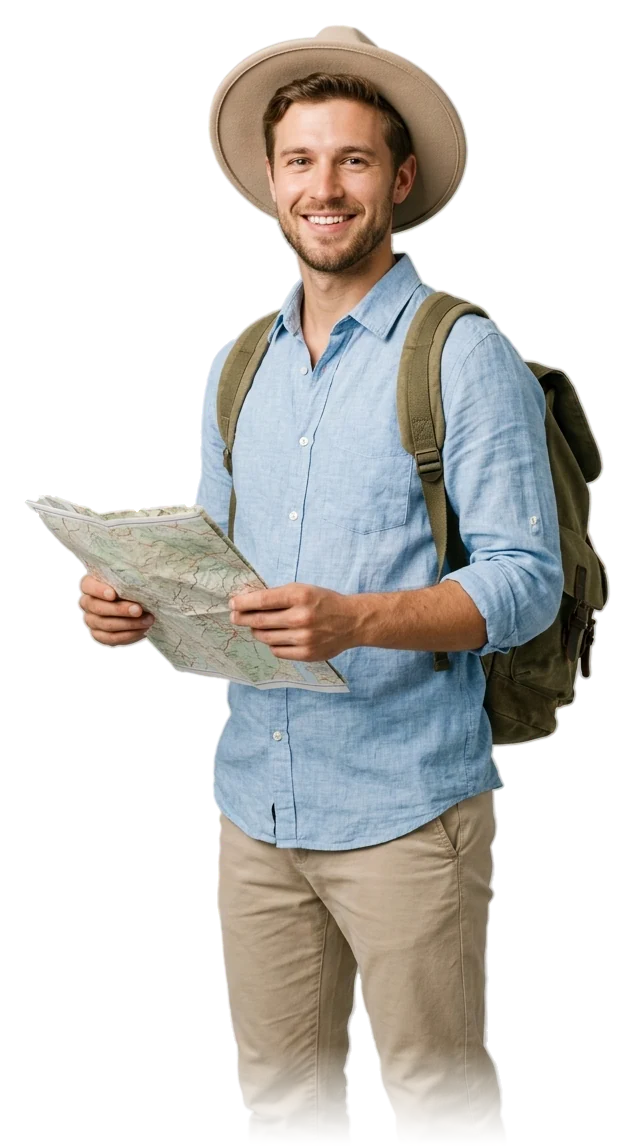
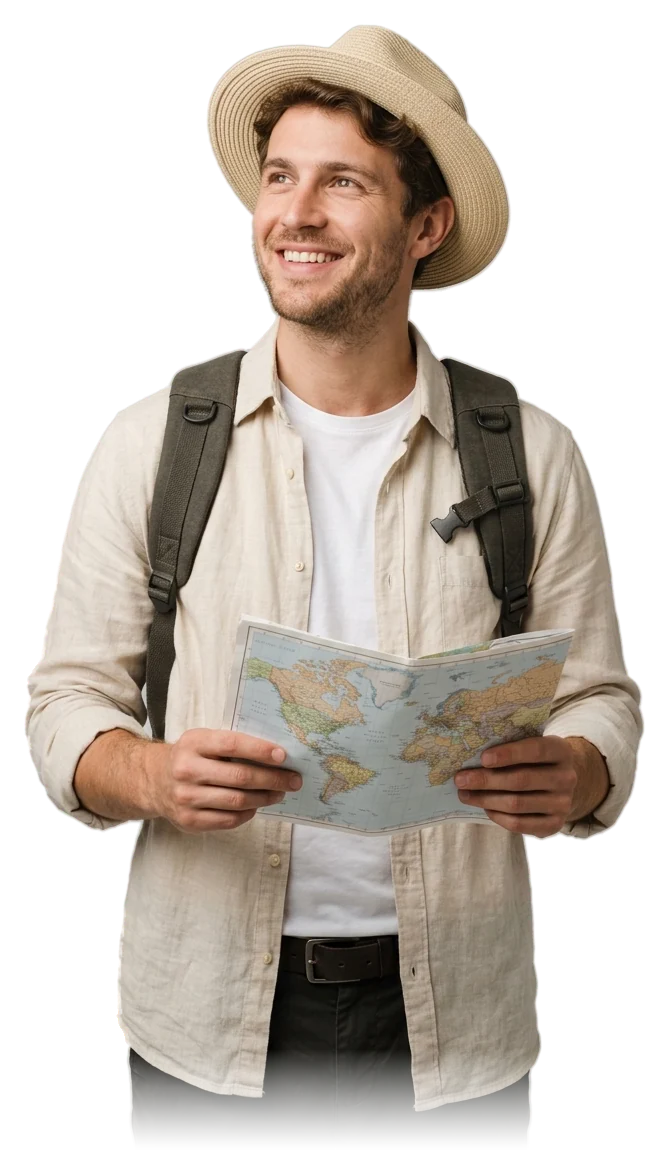
feat: Why West Travel section matching approved design (#2)
* Add reference-inspired palms, dunes and single three-pin flight arc

* Refine translated heading and eyebrow and integrate unified flight artwork

* Add irregular painted SVG alpha mask for landmark composition

* Match approved cream editorial composition with responsive and dark treatments

* feat: use traveler cutout matching approved reference (linen overshirt, white tee, straw hat, open map)

---------

diff --git a/src/components/why-west-travel/WhyWestTravelSection.module.css b/src/components/why-west-travel/WhyWestTravelSection.module.css
@@ -1,19 +1,18 @@
 .section {
-  --surface: #f7f3e9;
-  --heading: #102c40;
-  --body: #536875;
-  --accent: #216e72;
-  --mint: #e1eee7;
-  --line: #ded6c5;
-  --sand: #a58b61;
-  --wash: #e3e9df;
+  --surface: #f8f5ee;
+  --heading: #0b2b4b;
+  --body: #718594;
+  --accent: #008c9b;
+  --mint: #dfedeb;
+  --line: #e4dac6;
+  --sand: #cdb17d;
+  --wash: #e8ddca;
   position: relative;
   isolation: isolate;
   overflow: hidden;
-  padding: clamp(4rem, 7vw, 7rem) 0;
-  background: var(--surface);
+  padding: clamp(3rem, 4.5vw, 5rem) 0 2rem;
+  background: radial-gradient(ellipse at 48% 38%, #fffdf8 0, transparent 70%), var(--surface);
   color: var(--heading);
-  border-top: 1px solid var(--line);
 }
 
 .section[data-theme-mode="dark"] {
@@ -25,6 +24,7 @@
   --line: #233a43;
   --sand: #b9a17b;
   --wash: #18353d;
+  background: radial-gradient(ellipse at 48% 38%, #102636 0, transparent 70%), var(--surface);
 }
 
 .layout {
@@ -34,34 +34,37 @@
   grid-template-areas: "message" "visual" "benefits";
   gap: 2.5rem;
   align-items: center;
-  width: min(100% - 2.5rem, 1360px);
+  width: min(100% - 2.5rem, 1600px);
   margin-inline: auto;
 }
-
 .message { grid-area: message; min-width: 0; }
 .eyebrow {
   display: flex;
   align-items: center;
-  gap: 0.75rem;
+  gap: 0.55rem;
   color: var(--accent);
-  font-size: 0.6875rem;
-  font-weight: 700;
+  font-size: clamp(0.6875rem, 1.05vw, 1rem);
+  font-weight: 600;
   line-height: 1.6;
-  letter-spacing: 0.18em;
+  letter-spacing: 0.17em;
   text-transform: uppercase;
 }
-.eyebrow::before { content: ""; width: 1.75rem; height: 1px; background: var(--sand); flex: none; }
+.eyebrowPrefix { color: var(--sand); }
+.eyebrow::before, .eyebrow::after { content: ""; width: clamp(1.5rem, 3.6vw, 3.5rem); height: 1px; background: var(--sand); flex: 0 1 3.5rem; }
+.eyebrow::before { margin-right: 0.5rem; }
+.eyebrow::after { margin-left: 0.5rem; }
 .heading {
-  margin: 1rem 0 0;
+  margin: 1.25rem 0 0;
   font-family: var(--font-playfair), Georgia, serif;
-  font-size: clamp(2rem, 3.1vw, 2.75rem);
+  font-size: clamp(2.25rem, 3.4vw, 4rem);
   font-weight: 500;
-  line-height: 1.16;
-  letter-spacing: -0.035em;
+  line-height: 1.12;
+  letter-spacing: -0.04em;
   text-wrap: balance;
   overflow-wrap: break-word;
 }
-.description { margin: 1.5rem 0 0; max-width: 38ch; color: var(--body); font-size: 0.9375rem; line-height: 1.85; }
+.heading span { display: block; }
+.description { margin: 1.65rem 0 0; max-width: 38ch; color: var(--body); font-size: clamp(0.9375rem, 1.27vw, 1.25rem); line-height: 1.65; }
 .ctaWrap { margin-top: 1.75rem; }
 .cta {
   display: inline-flex;
@@ -69,69 +72,78 @@
   justify-content: center;
   gap: 1.25rem;
   max-width: 100%;
-  min-height: 48px;
-  padding: 0.875rem 1.75rem;
+  min-height: 54px;
+  padding: 0.95rem 2.25rem;
   border-radius: 999px;
-  background: #216e72;
+  background: #0095a3;
   color: #fff;
-  font-size: 0.875rem;
-  font-weight: 600;
+  font-size: clamp(0.9375rem, 1.2vw, 1.125rem);
+  font-weight: 500;
   text-decoration: none;
   transition: background-color 200ms ease;
 }
-.cta:hover { background: #17575c; }
+.cta:hover { background: #007986; }
 .cta:focus-visible { outline: 3px solid var(--accent); outline-offset: 5px; }
-.cta svg { flex: none; width: 18px; height: 18px; transition: transform 200ms ease; }
+.cta svg { flex: none; width: 21px; height: 21px; transition: transform 200ms ease; }
 .cta:hover svg { transform: translateX(4px); }
 
 .benefits { grid-area: benefits; list-style: none; padding: 0; margin: 0; display: grid; gap: 1.5rem; min-width: 0; }
-.feature { display: flex; align-items: flex-start; gap: 1rem; min-width: 0; }
-.icon { display: grid; place-items: center; width: 48px; height: 48px; flex: none; background: var(--mint); color: var(--accent); border-radius: 50%; }
-.icon svg { width: 23px; height: 23px; stroke-width: 1.6; }
-.featureCopy { min-width: 0; flex: 1; padding-bottom: 1.25rem; border-bottom: 1px solid var(--line); }
-.feature:last-child .featureCopy { border-bottom: 0; padding-bottom: 0; }
-.feature h3 { margin: 0; font-size: 0.9375rem; font-weight: 700; line-height: 1.5; }
-.feature p { margin: 0.375rem 0 0; color: var(--body); font-size: 0.8125rem; line-height: 1.8; }
+.feature { display: flex; align-items: flex-start; gap: 1.1rem; min-width: 0; }
+.icon { position: relative; display: grid; place-items: center; width: 60px; height: 60px; flex: none; background: var(--mint); color: #00677c; border-radius: 50%; box-shadow: inset 0 0 0 2px rgb(0 120 130 / 3%); }
+.icon svg { width: 32px; height: 32px; stroke-width: 1.6; }
+.supportLabel { position: absolute; top: 46%; left: 50%; transform: translate(-50%, -50%); padding: 1px; background: var(--mint); font-size: 8px; font-weight: 700; }
+.featureCopy { min-width: 0; flex: 1; padding-top: 0.2rem; }
+.featureCopy::after { content: ""; display: block; width: 46px; height: 1px; margin-top: 1.5rem; background: var(--sand); }
+.feature:last-child .featureCopy::after { display: none; }
+.feature h3 { margin: 0; font-size: clamp(0.9375rem, 1.15vw, 1.125rem); font-weight: 600; line-height: 1.5; }
+.feature p { margin: 0.4rem 0 0; color: var(--body); font-size: clamp(0.8125rem, 0.94vw, 0.9375rem); line-height: 1.65; max-width: 29ch; }
+.section[data-theme-mode="dark"] .icon { color: var(--accent); }
 
-.visual { grid-area: visual; position: relative; isolation: isolate; width: 100%; max-width: 530px; aspect-ratio: 1 / 1.1; margin: 0 auto; }
-.atmosphere { position: absolute; inset: 23% 0 3%; background: linear-gradient(155deg, transparent 8%, var(--wash) 45%, transparent 87%); }
-.landmarks { position: absolute; inset: auto -2% 5%; aspect-ratio: 10 / 7; -webkit-mask: url('/images/why-west-travel/landmark-feather.svg') center / 100% 100% no-repeat; mask: url('/images/why-west-travel/landmark-feather.svg') center / 100% 100% no-repeat; }
-.landmarks img { object-fit: cover; }
-.traveler { position: absolute; inset: 20% 13% 0; z-index: 2; }
+.visual { grid-area: visual; position: relative; isolation: isolate; width: 100%; max-width: 620px; aspect-ratio: 1 / 1.25; margin: 0 auto; }
+.atmosphere { position: absolute; inset: 22% 0 8%; background: radial-gradient(ellipse, var(--wash), transparent 70%); opacity: .35; }
+.landmarks { position: absolute; inset: 14% -12% 8%; -webkit-mask: url('/images/why-west-travel/landmark-brush.svg') center / 100% 100% no-repeat; mask: url('/images/why-west-travel/landmark-brush.svg') center / 100% 100% no-repeat; }
+.landmarks img { object-fit: cover; object-position: center; }
+.traveler { position: absolute; inset: 8% -2% 0; z-index: 2; }
 .traveler img { object-fit: contain; object-position: center bottom; }
 .photo { opacity: 0; transition: opacity 500ms ease; }
 .photo[data-loaded="true"] { opacity: 1; }
-.section[data-theme-mode="dark"] .landmarks { opacity: 0.72; }
-.section[data-theme-mode="dark"] .traveler { filter: brightness(0.9) saturate(0.85); }
-.route { position: absolute; top: 0; left: 0; width: 100%; height: 18%; color: var(--accent); opacity: 0.65; pointer-events: none; }
-.pin { position: absolute; z-index: 3; width: 20px; height: 27px; color: var(--accent); pointer-events: none; }
-.pinCenter { fill: var(--surface); }
-/* Pin tips sit just above the left Giza pyramid peak and the Burj Khalifa spire in landmarks.webp. */
-.gizaPin { left: calc(14.1% - 10px); top: calc(59.9% - 31px); }
-.dubaiPin { left: calc(79.1% - 10px); top: calc(50% - 31px); }
-.edge { position: absolute; top: 8%; height: 84%; width: 48px; color: var(--sand); opacity: 0.16; pointer-events: none; display: none; }
-.left { left: 10px; }
-.right { right: 10px; transform: rotate(180deg); }
-.section[data-theme-mode="dark"] .edge { opacity: 0.09; }
+.section[data-theme-mode="dark"] .landmarks { opacity: 0.68; }
+.section[data-theme-mode="dark"] .traveler { filter: brightness(0.88) saturate(0.85); }
+.route { position: absolute; z-index: 3; top: -1%; left: -9%; width: 118%; height: auto; color: var(--accent); pointer-events: none; }
+.edge { position: absolute; top: 4%; height: 88%; width: 58px; color: var(--sand); opacity: 0.12; pointer-events: none; display: none; }
+.left { left: 0; }
+.right { right: 0; transform: rotate(180deg); }
+.palm { position: absolute; width: clamp(130px, 14vw, 250px); color: #a99c7e; opacity: .24; pointer-events: none; display: none; }
+.palmTop { top: -15px; left: -25px; transform: rotate(-8deg); }
+.palmBottom { bottom: -12px; right: -10px; transform: rotate(180deg); }
+.dunes { position: absolute; bottom: 0; left: 0; width: 100%; height: clamp(100px, 15vw, 230px); color: var(--wash); opacity: .48; pointer-events: none; }
+.section[data-theme-mode="dark"] .edge { opacity: .055; }
+.section[data-theme-mode="dark"] .palm { opacity: .075; }
+.section[data-theme-mode="dark"] .dunes { opacity: .25; }
 
 @media (max-width: 599px) {
-  .visual { max-width: 330px; aspect-ratio: 1 / 1; }
-  .route, .pin { display: none; }
+  .section { padding-bottom: 3.5rem; }
+  .visual { max-width: 330px; }
+  .route { display: none; }
+  .eyebrow { letter-spacing: .12em; gap: .4rem; }
+  .heading { font-size: clamp(2rem, 8.5vw, 3rem); }
 }
 @media (min-width: 600px) {
   .benefits { grid-template-columns: repeat(2, minmax(0, 1fr)); gap: 2rem; }
 }
 @media (min-width: 768px) {
-  .layout { grid-template-columns: repeat(2, minmax(0, 1fr)); grid-template-areas: "visual message" "benefits benefits"; width: min(100% - 5rem, 1360px); gap: 3rem 2rem; }
+  .layout { grid-template-columns: repeat(2, minmax(0, 1fr)); grid-template-areas: "visual message" "benefits benefits"; width: min(100% - 5rem, 1600px); gap: 3rem 2rem; }
+  .palm { display: block; }
 }
 @media (min-width: 1200px) {
-  .layout { grid-template-columns: minmax(0, 0.26fr) minmax(0, 0.4fr) minmax(0, 0.34fr); grid-template-areas: "benefits visual message"; gap: clamp(1.5rem, 2.3vw, 2.5rem); width: min(100% - 10rem, 1360px); }
-  .benefits { grid-template-columns: minmax(0, 1fr); gap: 1.25rem; }
+  .layout { grid-template-columns: minmax(0, 26fr) minmax(0, 40fr) minmax(0, 34fr); grid-template-areas: "benefits visual message"; gap: clamp(1.25rem, 2vw, 2rem); width: min(100% - 9rem, 1600px); }
+  .benefits { grid-template-columns: minmax(0, 1fr); gap: 1.25rem; padding-bottom: 2rem; }
   .edge { display: block; }
-  .feature { gap: 0.875rem; }
-  .visual { aspect-ratio: 1 / 1.3; }
-  .gizaPin { top: calc(65.3% - 31px); }
-  .dubaiPin { top: calc(56.9% - 31px); }
+  .feature { gap: 1.15rem; }
+  .icon { width: clamp(60px, 4.8vw, 78px); height: clamp(60px, 4.8vw, 78px); }
+  .icon svg { width: 52%; height: 52%; }
+  .supportLabel { font-size: 10px; }
+  .message { padding-bottom: 3rem; }
 }
 @media (prefers-reduced-motion: reduce) {
   .photo, .cta, .cta svg { transition: none; }

diff --git a/src/components/why-west-travel/TravelArtwork.tsx b/src/components/why-west-travel/TravelArtwork.tsx
@@ -18,29 +18,33 @@ export function EgyptianEdges() {
           </g>
         </svg>
       ))}
-    </>
-  );
-}
-
-/** One open route, with its airplane pointing along the final tangent. */
-export function FlightRoute() {
-  return (
-    <svg className={styles.route} viewBox="0 0 480 100" fill="none" aria-hidden="true" focusable="false">
-      <path d="M38 81C96 10 256 5 417 50" stroke="currentColor" strokeWidth="1.6" strokeDasharray="2 7" strokeLinecap="round" />
-      <path transform="translate(424 52) rotate(16)" d="M17 0L-2-5L-9-17L-14-17L-9-4L-20-5L-25-10L-28-9L-24 0L-28 9L-25 10L-20 5L-9 4L-14 17L-9 17L-2 5Z" fill="currentColor" />
-    </svg>
-  );
-}
-
-export function LandmarkPins() {
-  return (
-    <>
-      {(["gizaPin", "dubaiPin"] as const).map((position) => (
-        <svg key={position} className={`${styles.pin} ${styles[position]}`} viewBox="0 0 24 32" fill="none" aria-hidden="true" focusable="false">
-          <path d="M12 30S2 19 2 12a10 10 0 0 1 20 0c0 7-10 18-10 18Z" fill="currentColor" />
-          <circle cx="12" cy="12" r="3.5" className={styles.pinCenter} />
+      {(["palmTop", "palmBottom"] as const).map((position) => (
+        <svg key={position} className={`${styles.palm} ${styles[position]}`} viewBox="0 0 260 240" fill="currentColor" aria-hidden="true" focusable="false">
+          <path d="M0 12Q116 63 243 220L240 222Q117 75 0 16Z" />
+          <path d="M20 25Q67 2 137 9Q83 20 36 34ZM40 38Q99 16 169 32Q105 34 52 47ZM65 54Q128 37 201 66Q132 54 77 65ZM89 73Q155 63 224 106Q155 82 101 85ZM115 96Q181 98 242 148Q180 117 127 109ZM143 124Q205 135 258 193Q199 152 155 138ZM170 156Q219 174 260 230Q211 191 180 169Z" />
+          <path d="M22 27Q14 76 46 124Q34 74 35 35ZM47 44Q44 104 87 158Q65 106 60 53ZM73 63Q77 132 126 187Q97 127 86 73ZM101 85Q111 157 166 212Q132 148 114 98ZM132 113Q146 181 208 237Q169 174 145 127ZM163 147Q188 208 245 239Q208 195 176 160Z" />
         </svg>
       ))}
+      <svg className={styles.dunes} viewBox="0 0 1600 240" preserveAspectRatio="none" aria-hidden="true" focusable="false">
+        <path d="M0 135C130 42 229 244 405 208S657 73 850 145S1103 7 1250 54S1465 78 1600 0V240H0Z" fill="currentColor" opacity=".55" />
+        <path d="M0 188C212 93 320 267 532 208S809 138 1015 199S1369 78 1600 110V240H0Z" fill="currentColor" opacity=".35" />
+      </svg>
     </>
+  );
+}
+
+/** A single arc stays inside the visual column, clear of all copy. */
+export function FlightRoute() {
+  return (
+    <svg className={styles.route} viewBox="0 0 600 180" fill="none" aria-hidden="true" focusable="false">
+      <path d="M35 153C137 5 456 3 565 153" stroke="currentColor" strokeOpacity=".48" strokeWidth="1.7" strokeDasharray="7 7" />
+      <path transform="translate(432 62) rotate(13) scale(.8)" d="M24 0L2-5L-10-22L-16-22L-10-4L-23-5L-29-12L-33-11L-28 0L-33 11L-29 12L-23 5L-10 4L-16 22L-10 22L2 5Z" fill="currentColor" />
+      {([{ x: 66, y: 113, color: "#4daab3" }, { x: 251, y: 44, color: "#d7b27a" }, { x: 543, y: 117, color: "#50849a" }] as const).map(({ x, y, color }) => (
+        <g key={x} transform={`translate(${x} ${y})`}>
+          <path d="M0 0S-11-13-11-21a11 11 0 0 1 22 0C11-13 0 0 0 0Z" fill={color} />
+          <circle cy="-21" r="4.5" fill="var(--surface)" />
+        </g>
+      ))}
+    </svg>
   );
 }

diff --git a/src/components/why-west-travel/WhyWestTravelSection.tsx b/src/components/why-west-travel/WhyWestTravelSection.tsx
@@ -7,7 +7,7 @@ import { ArrowRight, CalendarCheck, Globe2, Headphones, ShieldCheck } from "luci
 import { useHero } from "@/components/hero/HeroProvider";
 import { WHY_WEST_TRAVEL_FEATURES, WHY_WEST_TRAVEL_SECTION_CONFIG } from "@/config/why-west-travel";
 import { WHY_WEST_ASSET_COPY } from "@/i18n/why-west-travel-assets";
-import { EgyptianEdges, FlightRoute, LandmarkPins } from "./TravelArtwork";
+import { EgyptianEdges, FlightRoute } from "./TravelArtwork";
 import styles from "./WhyWestTravelSection.module.css";
 
 const FEATURE_ICONS = {
@@ -85,10 +85,10 @@ export function WhyWestTravelSection() {
       <div className={styles.layout}>
         <div className={styles.message}>
           <p className={styles.eyebrow} data-reveal="right">
-            {copy.eyebrowPrefix} {copy.eyebrowHighlight}
+            <span className={styles.eyebrowPrefix}>{copy.eyebrowPrefix}</span>{" "}<span>{copy.eyebrowHighlight}</span>
           </p>
           <h2 id="why-west-travel-heading" className={styles.heading} data-reveal="right" data-delay="70">
-            {copy.headingLine1}{" "}{copy.headingLine2}
+            <span>{copy.headingLine1}</span>{" "}<span>{copy.headingLine2}</span>
           </h2>
           <p className={styles.description} data-reveal="right" data-delay="140">{copy.supportingText}</p>
           <div className={styles.ctaWrap} data-reveal="right" data-delay="210">
@@ -108,7 +108,7 @@ export function WhyWestTravelSection() {
                 src={ASSETS.landmarks}
                 alt={assetCopy.landmarks}
                 fill
-                sizes="(max-width: 599px) 340px, (max-width: 1199px) 45vw, 530px"
+                sizes="(max-width: 599px) 390px, (max-width: 1199px) 55vw, 700px"
                 className={styles.photo}
                 data-loaded={landmarks === "ready"}
                 onLoad={() => setLandmarks("ready")}
@@ -122,7 +122,7 @@ export function WhyWestTravelSection() {
                 src={ASSETS.traveler}
                 alt={assetCopy.traveler}
                 fill
-                sizes="(max-width: 599px) 245px, (max-width: 1199px) 33vw, 390px"
+                sizes="(max-width: 599px) 320px, (max-width: 1199px) 45vw, 580px"
                 className={styles.photo}
                 data-loaded={traveler === "ready"}
                 onLoad={() => setTraveler("ready")}
@@ -130,7 +130,6 @@ export function WhyWestTravelSection() {
               />
             )}
           </div>
-          {landmarks === "ready" && <LandmarkPins />}
         </div>
 
         <ul className={styles.benefits}>
@@ -139,7 +138,7 @@ export function WhyWestTravelSection() {
             const localized = copy.features[feature.id];
             return (
               <li key={feature.id} className={styles.feature} data-reveal="left" data-delay={index * 65} data-why-feature={feature.id} data-verification-status={feature.verificationStatus}>
-                <span className={styles.icon}><Icon aria-hidden="true" /></span>
+                <span className={styles.icon}><Icon aria-hidden="true" />{feature.id === "support" && <span className={styles.supportLabel}>24/7</span>}</span>
                 <div className={styles.featureCopy}>
                   <h3>{localized.title}</h3>
                   <p>{localized.description}</p>
